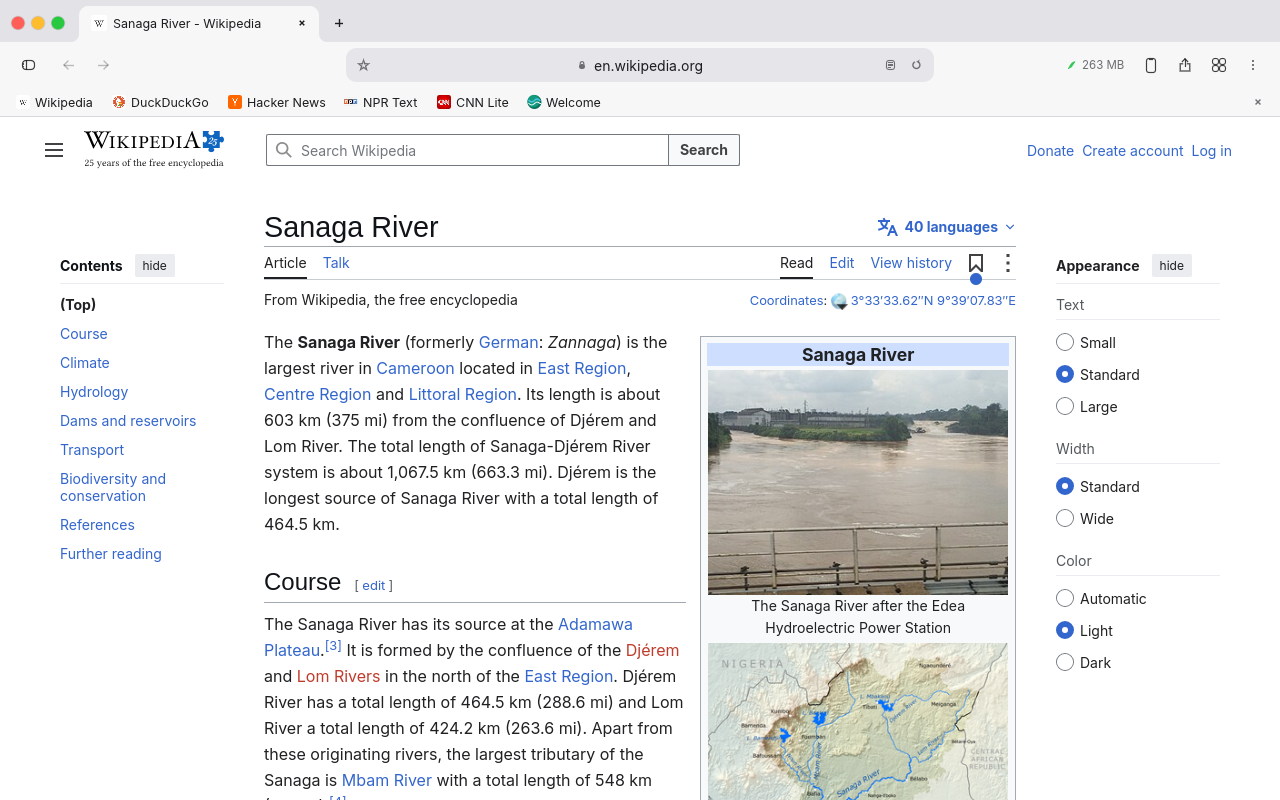
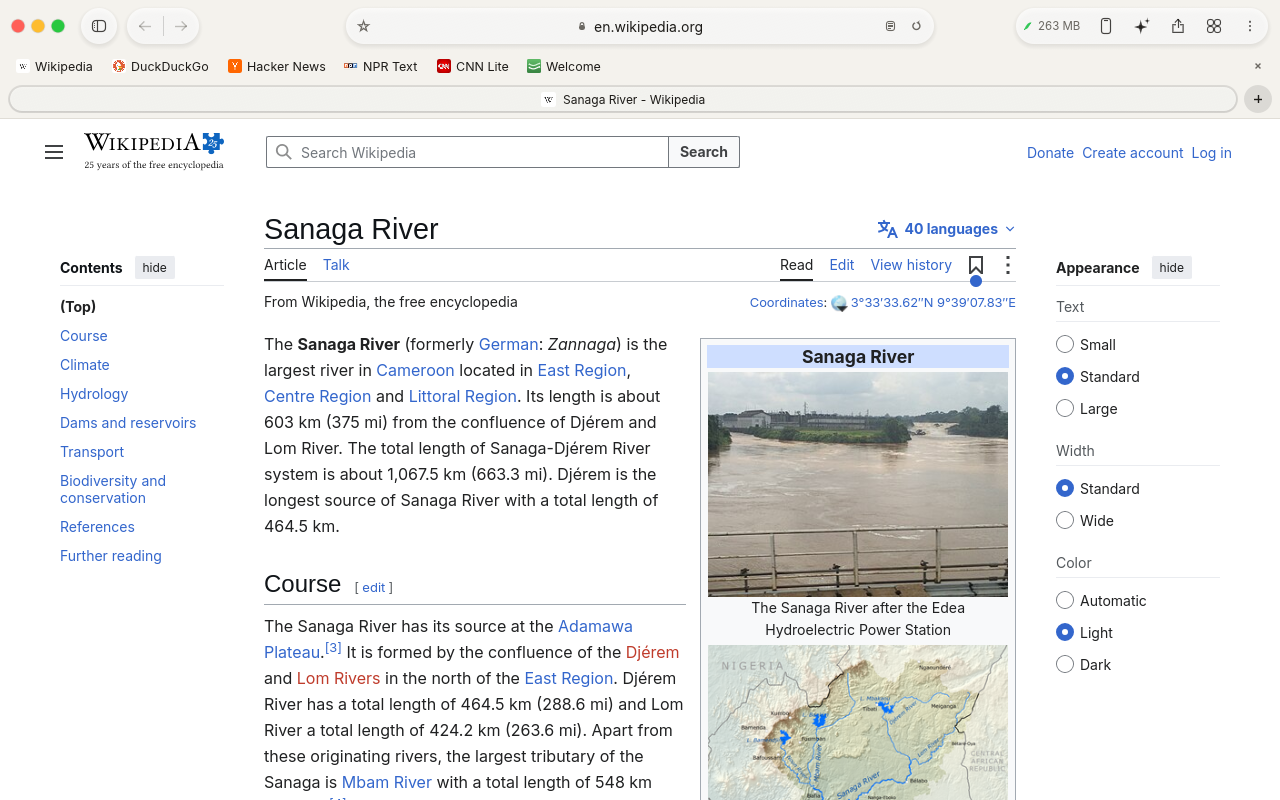
README: new screenshots and the full list of features
- ten fresh pictures of Sanaga's own window (temporary profile): browser,
  new tab, menu and page tools, containers, website settings, tree tabs,
  focus mode with a window border, dark sidebar, settings, mobile simulator
- features regrouped: browsing, tabs and windows, privacy and security,
  website settings, page tools, look and comfort, extensions, developers,
  mobile simulator
- usage (--preview), shortcuts (summary, focus mode, contact details), data
  folder (containers, sites.tsv, buttons.tsv), code map and limitations
  brought up to date

diff --git a/README.md b/README.md
@@ -1,16 +1,33 @@
 # Sanaga
 
-**A fast, light web browser for Linux** — built in Rust on WebKitGTK, with a
-Safari-inspired window, Chrome-style tabs and groups, and a built-in mobile
-simulator for web developers.
+**A fast, light web browser for Linux** — built in Rust on GTK 4 and
+WebKitGTK 6, with a Safari-inspired window, Chrome-style tabs and groups,
+containers, a network ad blocker, per-site settings, page tools and a built-in
+mobile simulator for web developers.
 
 Sanaga is named after the Sanaga, the longest river in Cameroon.
 
 ![Sanaga showing a Wikipedia article](docs/screenshots/browser.png)
 
-| Mobile simulator | New tab |
+| New tab | Menu and page tools |
 |---|---|
-| ![The mobile simulator showing a page in an iPhone frame with Safari-style bars](docs/screenshots/mobile-simulator.png) | ![The new tab page with favourites and reports](docs/screenshots/new-tab.png) |
+| ![The new tab page with favourites, privacy and sobriety reports](docs/screenshots/new-tab.png) | ![The ⋮ menu with More tools open: containers, focus mode, keep on top, floating video, website settings, remove an element, edit text, unlock copy, archived version](docs/screenshots/menu.png) |
+
+| Containers | Settings for this website |
+|---|---|
+| ![Tabs in the Work and Shopping containers, each with its colour, and the container chooser](docs/screenshots/containers.png) | ![The website settings panel: JavaScript, blocker, fonts, dark mode, no sticky bars, copy unlocked, page font, identity](docs/screenshots/site-settings.png) |
+
+| Tree tabs (vertical) | Focus mode with a window border |
+|---|---|
+| ![Vertical tabs as a tree: each tab under the page it was opened from](docs/screenshots/tree-tabs.png) | ![Focus mode: only the page, inside a gradient window border](docs/screenshots/focus-border.png) |
+
+| Sidebar, dark look | Settings |
+|---|---|
+| ![The floating sidebar in the dark look: tab groups, favourites, reading list, history](docs/screenshots/sidebar-dark.png) | ![Settings: window border, compact mode, tree tabs, application icon colours](docs/screenshots/settings.png) |
+
+| Mobile simulator |
+|---|
+| ![The mobile simulator showing a page in an iPhone frame with Safari-style bars](docs/screenshots/mobile-simulator.png) |
 
 ---
 
@@ -19,60 +36,99 @@ Sanaga is named after the Sanaga, the longest river in Cameroon.
 - **Light on memory.** Tabs only start their page when you first show them,
   a memory saver puts long-unused tabs to sleep, and only a few web pages run
   at the same time. A hundred open tabs do not mean a hundred running pages.
-- **Quiet when idle.** The interface only redraws when something changes.
-- **Native and smooth.** One native GTK window (Wayland or X11): the page and
-  the interface are laid out and drawn together, so resizing stays smooth.
-- **Private and safe by default.** Pages run in a sandbox (bubblewrap),
-  cross-site tracking prevention, a network blocker of ads and trackers (the
-  requests never leave), containers, a privacy report, passwords kept in the
-  system keyring, no telemetry.
+- **Quiet when idle.** The interface only redraws when something changes; a
+  still page costs nothing. Low power mode on battery.
+- **Native and smooth.** One native GTK 4 window (Wayland or X11): the page and
+  the interface are composed together on the graphics card.
+- **Private and safe by default.** Pages run in a sandbox, cross-site tracking
+  prevention, a network blocker of ads and trackers (the requests never
+  leave), containers, a privacy report, passwords kept in the system keyring,
+  no telemetry, no account.
 
 ## Features
 
 **Browsing**
-- Full web engine (WebKitGTK), plus an optional *Light* engine for very fast,
+- Full web engine (WebKitGTK 6), plus an optional *Light* engine for very fast,
   simplified pages.
-- Chrome-style tab row: pinned tabs, drag to reorder, tab groups with colours,
-  folding and naming, mute, duplicate, “new tab to the right”, reopen closed tab.
 - Address bar with suggestions (history, bookmarks, open tabs, calculator,
   search shortcuts), arrow-key navigation, site info and zoom per site.
-- Sidebar (bookmarks, reading list, tab groups, history), tab overview with
-  thumbnails, tab search.
 - Reader mode, find in page, print, save page, full screen, page source view
   with colours, line numbers and line wrapping (Ctrl+U).
-- Private tabs, multiple profiles, sync of bookmarks/reading list and open tabs
-  through any shared folder (Syncthing, Nextcloud, a USB key…).
-- Passwords and AutoFill (system keyring), import of bookmarks, history and
-  passwords from Chrome, Chromium, Brave, Edge, Vivaldi and Firefox.
-- Extensions: built-in ones (no cookie banners, no autoplay, dark mode), your
-  own `.js`/`.css` files, user scripts (`.user.js`), and extensions made for
-  Chrome (`.crx`, `.zip`, unpacked folder) or Firefox (`.xpi`) that act inside
-  pages (Settings › Extensions › Install an extension…).
-- Containers: tabs with their own cookies and logins (two accounts of one site
-  side by side); right-click a tab or a link › Open in a container.
-- Website settings, site by site: JavaScript, web fonts, the blocker, dark
-  mode, another font, no sticky bars, copy unlocked, page parts removed for
-  good (right-click in a page › Settings for this website…).
-- Page tools: floating video (kept above the other windows), remove an
-  element, edit the page's text, unlock copy and paste, archived version
-  (Internet Archive), link preview in a small window (`sanaga --preview URL`
-  from other applications), built-in PDF reader.
-- Focus mode (Ctrl+Shift+K or F9: only the page), keep the window on top,
-  compact mode, a coloured / gradient / animated window border, a choice of
-  app icons, low power mode on battery.
-- Your own toolbar buttons (an address, a Sanaga command or your script), and
-  a » menu to tuck buttons away; vertical tabs as a tree (a tab under the page
-  it came from, foldable); move a tab group to its own window; profiles with
-  their own emoji and launcher.
-- Customisable toolbar (right-click it), touchpad swipe and mouse side buttons
-  for back/forward, native tooltips.
-- Web inspector (Ctrl+Shift+I or F12), docked or in its own window.
-- Your layout: tabs on top, at the bottom or down the side (vertical tabs);
-  address bar on top, at the bottom or floating. Accent colour and light/dark
-  follow the system (Grassfield) or your choice.
-- Page summaries (✦, Ctrl+Shift+Y) and extensions written from a description —
-  with Sanaga alone (no AI), a local model (Ollama) or Claude (your API key).
+- Built-in PDF reader (search, zoom, print, annotations).
+- Files the browser can't show (archives, installers…) are downloaded; a
+  downloads bar and page.
+- Translation of the page with Google, or in place with the AI of your choice
+  (Claude Code, Codex, Claude, a local Ollama model — offline).
+- Page summaries (✦, Ctrl+Shift+Y) and extensions written from a description.
+
+**Tabs and windows**
+- Chrome-style tab row: pinned tabs, drag to reorder, tab groups with colours,
+  folding and naming, mute, duplicate, “new tab to the right”, reopen closed tab.
+- Many tabs: arrows and a counter open the searchable list of all tabs; tab
+  overview with thumbnails (Ctrl+Shift+O); tab search (Ctrl+Shift+A).
+- Vertical tabs as a **tree**: a tab opened from a page goes under it; fold a
+  branch, close it in one go.
+- Several windows (Ctrl+N), all restored at start; move a tab or a whole tab
+  group to its own window; the sidebar lists the open windows.
+- Unified sidebar: tab groups, windows, favourites, reading list, history.
+- Link preview in a small window (right-click a link, or `sanaga --preview URL`
+  from another application).
+
+**Privacy and security**
+- **Containers**: tabs with their own cookies, logins and site data — two
+  accounts of one site side by side (right-click a tab or a link › Open in a
+  container).
+- **Network blocker** of ads and trackers (on by default, per-site switch),
+  plus cookie-banner hiding.
+- Cross-site tracking prevention with a privacy report; no `<a ping>`; videos
+  never start with sound; notification requests refused quietly.
+- Passwords and AutoFill in the system keyring; import of bookmarks, history
+  and passwords from Chrome, Chromium, Brave, Edge, Vivaldi and Firefox.
+- Private tabs, profiles (each with its emoji and its own launcher in your
+  applications), sync of bookmarks, reading list and open tabs through any
+  shared folder (Syncthing, Nextcloud, a USB key…).
+- Per-site browser identity (Automatic, Safari, Chrome, Firefox) for the few
+  web apps that refuse WebKit; DRM services (Netflix, Spotify…) are recognised
+  and opened in an app or browser that can play them.
+
+**Website settings** (right-click in a page › Settings for this website…)
+- JavaScript, web fonts and the blocker, site by site.
+- The page's look: dark mode, another font, no sticky headers and bars.
+- Copy and paste unlocked on sites that forbid it.
+- Parts of the page removed for good (element remover), restored in one click.
+
+**Page tools**
+- Floating video: the page's video in a small window kept above the others.
+- Remove an element, edit the page's text (for a screenshot or a mock-up),
+  archived version of the page (Internet Archive, also offered when a site
+  doesn't load).
+
+**Look and comfort**
+- macOS-27-style window: toolbar capsules, tab pills, floating sidebar.
+- Your layout: tabs on top, at the bottom or down the side; address bar on
+  top, at the bottom or floating; compact mode.
+- Focus mode (Ctrl+Shift+K or F9): only the page. Keep the window on top.
+- Window border: accent colour, gradient or animated colours.
+- Accent colour and light/dark follow the system (Grassfield) or your choice;
+  five application icon colours.
+- Your own toolbar buttons (an address, a Sanaga command or your script) and a
+  » menu to tuck buttons away; right-click the toolbar to choose its buttons.
+- Touchpad swipe and mouse side buttons for back/forward, native tooltips.
+- Welcome tour with the first choices; macOS-style Settings with search.
+- Screen readers: the interface and the pages are published over AT-SPI.
 - Interface in English, French, Spanish, Portuguese and German.
+
+**Extensions**
+- Built-in: no cookie banners, no autoplay, dark mode for every site.
+- Extensions made for Chrome (`.crx`, `.zip`, unpacked folder) or Firefox
+  (`.xpi`) that act inside pages, and user scripts (`.user.js`) —
+  Settings › Extensions › Install an extension…
+- Your own `.js` / `.css` files, or extensions written for you from a
+  description (Sanaga alone, Ollama, Claude, Claude Code, Codex).
+- Switching one on or off applies at once to the open pages.
+
+**For web developers**
+- Web inspector (Ctrl+Shift+I or F12), docked or in its own window.
 
 **Mobile simulator** (Ctrl+Shift+M, or the phone button)
 - 120 devices: iPhone, Pixel, Galaxy, Tecno, Infinix, itel, Xiaomi, OnePlus…,
@@ -125,6 +181,7 @@ sanaga [address …]            # open these addresses (or restore the last sess
 sanaga --profile Work         # use the "Work" profile (its own data)
 sanaga --app https://…        # open one site on its own, as a web app
 sanaga --new-window           # a new window in the running Sanaga
+sanaga --preview https://…    # preview a link in a small window
 sanaga --reader https://…     # open in Reader mode
 sanaga --apercu               # start on the tab overview
 sanaga --screenshot out.png   # draw the window once, save a picture, quit
@@ -153,6 +210,9 @@ sanaga --screenshot out.png   # draw the window once, save a picture, quit
 | Page source / print / save | Ctrl+U / Ctrl+P / Ctrl+S |
 | Web inspector | Ctrl+Shift+I, F12 |
 | Mobile simulator | Ctrl+Shift+M |
+| Page summary | Ctrl+Shift+Y |
+| Focus mode | Ctrl+Shift+K, F9 |
+| Fill in my contact details | Ctrl+Shift+F |
 | Full screen | F11 |
 | Clear browsing data | Ctrl+Shift+Delete |
 
@@ -160,8 +220,10 @@ sanaga --screenshot out.png   # draw the window once, save a picture, quit
 
 Everything stays on your computer, in `~/.local/share/sanaga/`
 (or `$XDG_DATA_HOME/sanaga/`): settings, history, bookmarks, session, site
-data (`webkit/`), extensions (`extensions/`), device frames (`cadres/`), and one
-sub-folder per extra profile (`profils/<name>/`). Passwords are not stored
+data (`webkit/`, and `webkit/containers/<name>/` for each container), website
+settings (`sites.tsv`), your toolbar buttons (`buttons.tsv`), extensions
+(`extensions/`), device frames (`cadres/`), and one sub-folder per extra
+profile (`profils/<name>/`). Passwords are not stored
 there: they go to the system keyring.
 
 ## How it is built
@@ -169,7 +231,9 @@ there: they go to the system keyring.
 | Part | Files |
 |---|---|
 | Native window: GTK 4 window, the interface drawn by [egui](https://github.com/emilk/egui) in a GL area, pages as WebKit widgets on top, input and window commands | `src/shell.rs` |
-| One web page (WebKitGTK view, scripts, downloads, signals) | `src/page.rs` |
+| One web page (WebKitGTK view, scripts, downloads, signals, blocker, website settings applied) | `src/page.rs`, `src/site_prefs.rs` |
+| Page tools, containers, website settings panel, toolbar buttons | `src/app/tools.rs`, `src/app/containers.rs`, `src/app/sitepanel.rs`, `src/app/buttons.rs` |
+| Extensions (built-in, files, Chrome / Firefox packages) | `src/extensions.rs`, `src/webext.rs` |
 | The interface (tabs, toolbar, menus, internal pages, simulator…) | `src/app/` |
 | Light engine (HTML to blocks, Reader) | `src/html.rs`, `src/net.rs` |
 | Saved data, profiles, sync, keyring, imports | `src/store.rs`, `src/sync.rs`, `src/keyring.rs`, `src/migrate.rs`, `src/import.rs` |
@@ -195,8 +259,15 @@ engine bridge and a few system services.
 ## Known limitations
 
 - Linux only for now (GTK 4 + WebKitGTK 6) — see [Platforms](#platforms).
-- Extensions are simple page scripts and styles; Chrome Web Store extensions are
-  not supported.
+- Chrome and Firefox extensions work when they act inside pages; those needing a
+  background service or a pop-up (password managers…) are not supported
+  (WebKitGTK has no extension API).
+- DRM video (Netflix, Disney+, Spotify web) can't play in WebKitGTK; Sanaga
+  offers to open it in an app or browser that can.
+- Keeping a window on top and placing the floating video are done with
+  Hyprland; on other desktops the desktop decides.
+- Emoji typed in Sanaga's own interface show as initials (its fonts have no
+  colour emoji); pages show them normally.
 - Video recording has no sound; its size is the device's size on screen (use
   100 % zoom for sharper videos).
 - Window moving, maximising and the title bar integration have extra support for
